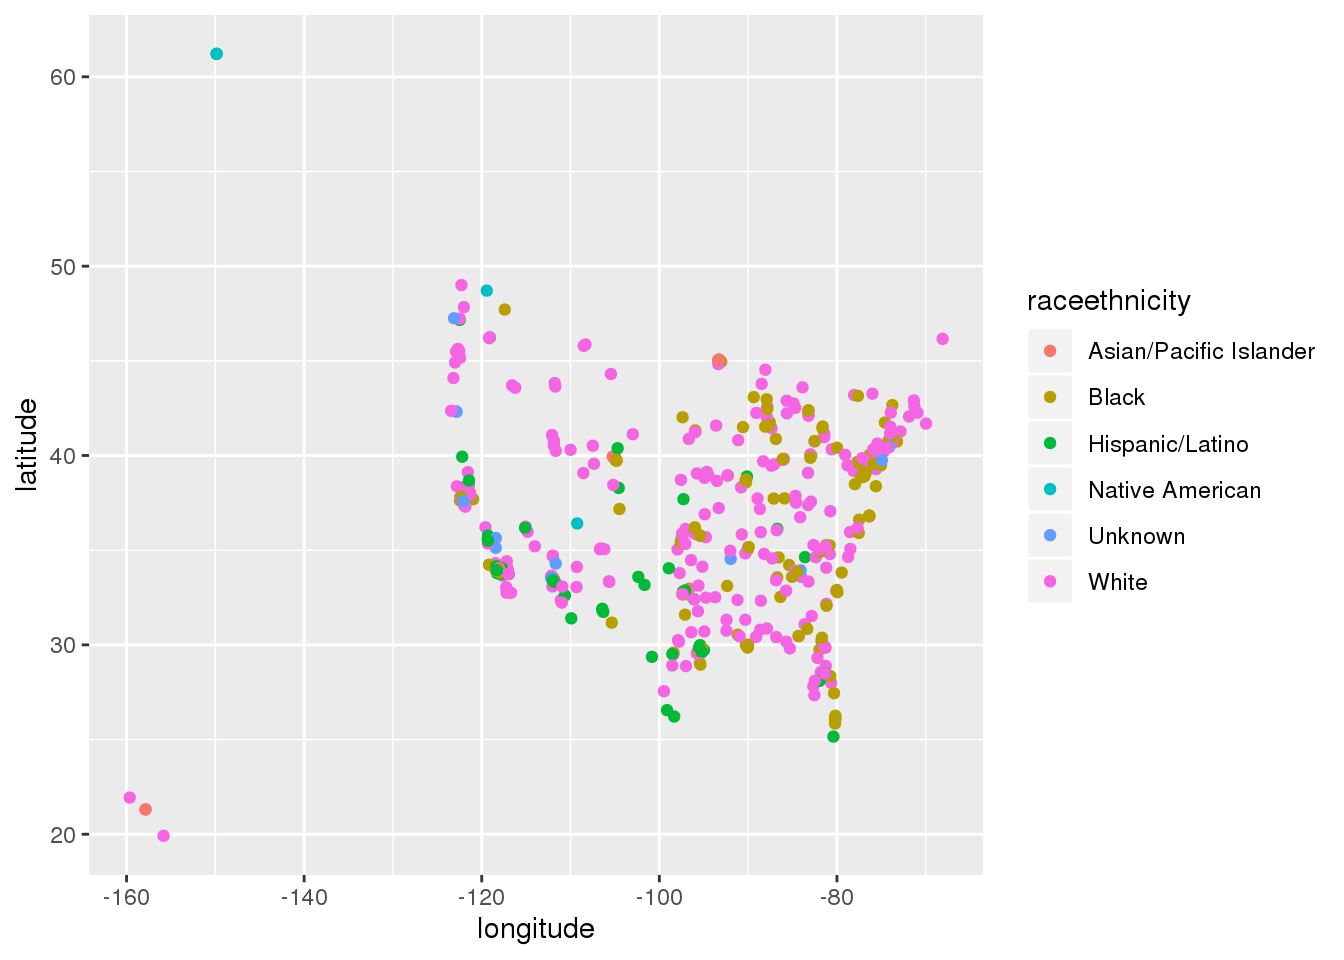
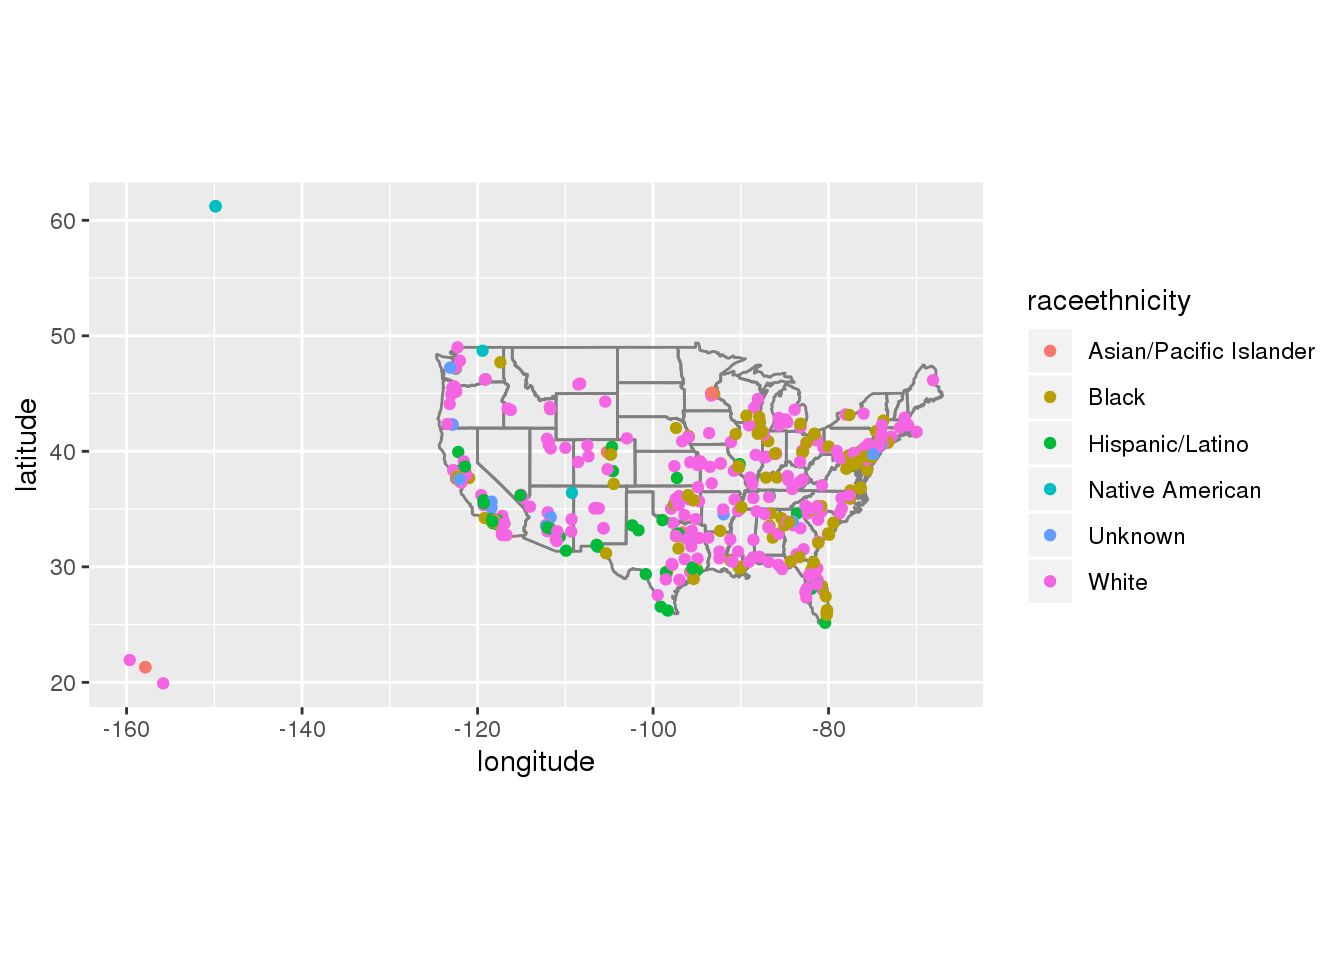
updating old graphs

diff --git a/content/post/2020-12-09-english-premier-league-19-20/index.html b/content/post/2020-12-09-english-premier-league-19-20/index.html
@@ -71,13 +71,9 @@ epl4 &lt;- read.csv(file = here::here(&quot;epl_data&quot;, &quot;players_1920_f
 <pre><code>##   avg_height
 ## 1   175.3985</code></pre>
 <pre><code>## Warning: Continuous x aesthetic -- did you forget aes(group=...)?</code></pre>
-<pre><code>## Warning: Removed 1 rows containing non-finite values (stat_boxplot).</code></pre>
-<pre><code>## Warning: Removed 1 rows containing missing values (geom_point).</code></pre>
-<p><img src="index_files/figure-html/unnamed-chunk-3-1.png" width="672" /></p>
-<pre><code>## Warning: Continuous x aesthetic -- did you forget aes(group=...)?</code></pre>
 <pre><code>## Warning: Removed 1 rows containing missing values (stat_boxplot).</code></pre>
 <pre><code>## Warning: Removed 1 rows containing missing values (geom_point).</code></pre>
-<p><img src="index_files/figure-html/unnamed-chunk-3-2.png" width="672" />
+<p><img src="index_files/figure-html/unnamed-chunk-3-1.png" width="672" />
 *Question 2: Second, do teams tend to preform better with older, experienced players or young, talented players. Getting the average age of the players for each team and basing that with their results. Respectively, comparing if they score more goals, prevent more goals, and their wins, then plotting this into a bar chart.</p>
 <pre><code>## Observations: 1,048,575
 ## Variables: 77

diff --git a/content/post/2020-12-09-police-data/index.html b/content/post/2020-12-09-police-data/index.html
@@ -16,6 +16,7 @@ library(ggplot2)
 library(tidyverse)
 library(readxl)
 library(tinytex)
+library(maptools)
 library(fivethirtyeight)
 knitr::opts_chunk$set(echo = FALSE, tidy = TRUE)
 police1 &lt;- read.csv(file = here::here(&quot;police_data&quot;, &quot;clean_data.csv&quot;))
@@ -145,3 +146,4 @@ head(police1)</code></pre>
 ## 5       False
 ## 6       False</code></pre>
 <p><img src="index_files/figure-html/unnamed-chunk-4-1.png" width="672" /></p>
+<p><img src="index_files/figure-html/unnamed-chunk-5-1.png" width="672" /></p>
